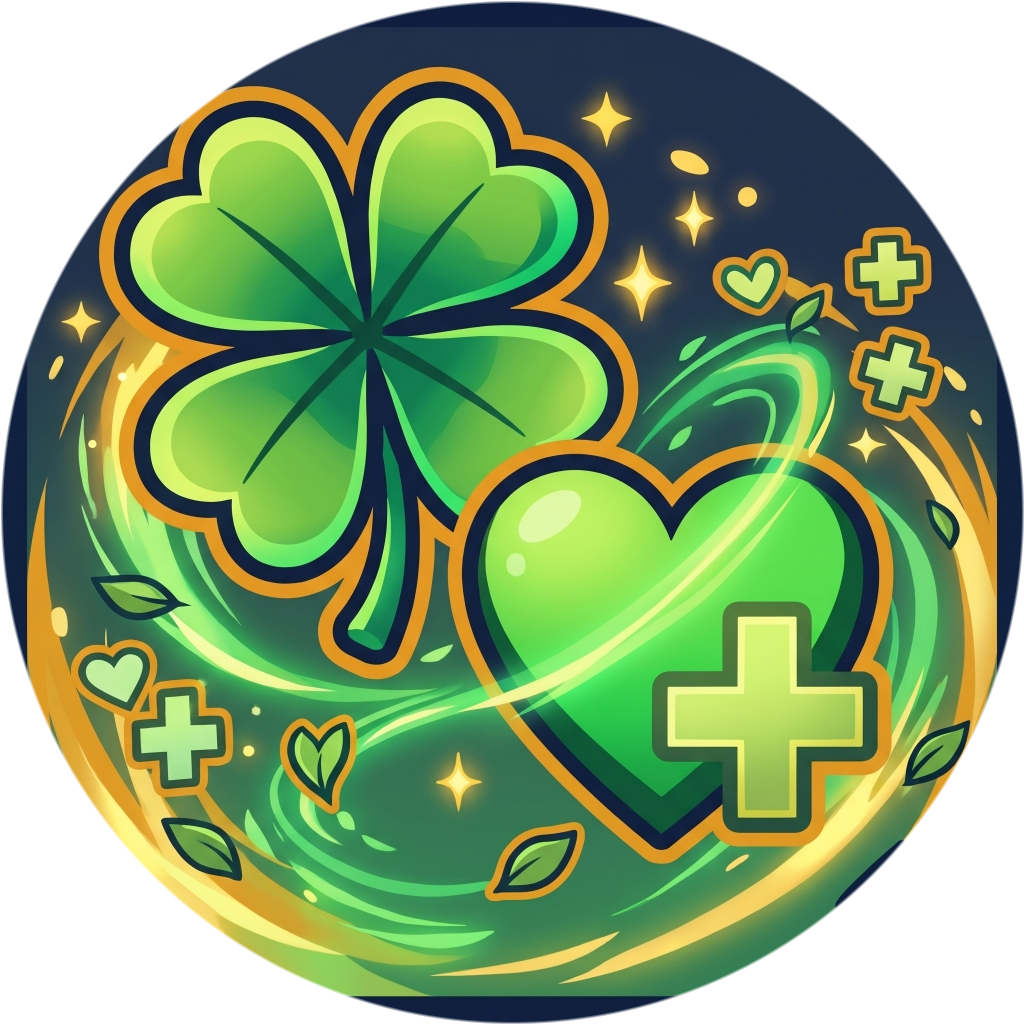
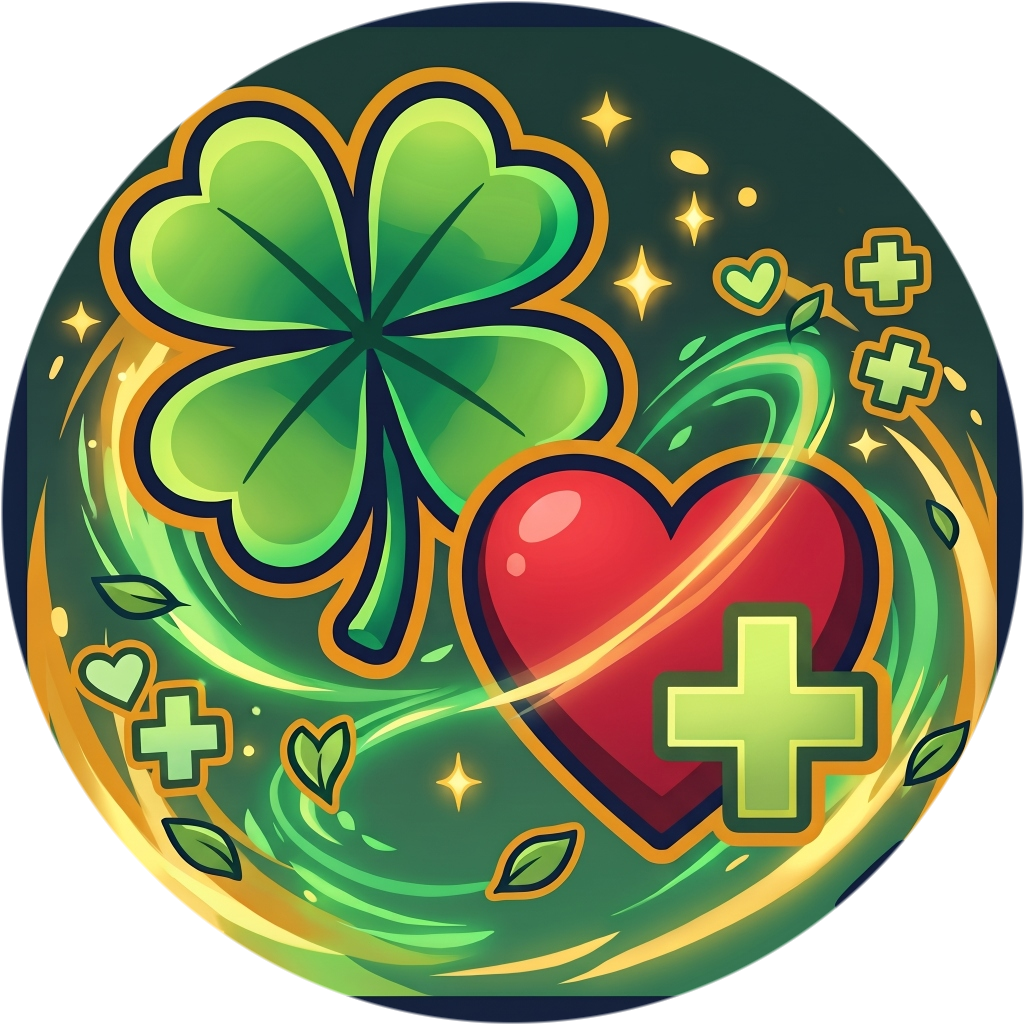
증강 알고리즘 수정

Changed region(s): [[0.4688, 0.4375, 0.8438, 0.8125], [0.5625, 0.375, 0.5938, 0.4062]]

diff --git a/src/calc/augmentRoll.js b/src/calc/augmentRoll.js
@@ -56,22 +56,99 @@ function pickWeightedIndex(pool, pokemon = null, battle = null) {
   return pool.length - 1;
 }
 
-function getForcedSynergyAugment(pokemon) {
+export function getForcedSynergyAugment(pokemon, availablePool = null, battle = null, team = null) {
   if (!pokemon) return null;
+
+  // 이미 활성화된 시너지 제외하고, 해당 포켓몬이 1개 이상 보유하고 아직 남은 구성 증강이 있는 시너지 수집
+  const activeSynergies = [];
   for (const [buffId, requiredIds] of Object.entries(AUGMENT_SYNERGY_MAP)) {
-    // 영메는 팀 전체니까 따로 관리
+    // 영메/메용 등 팀 또는 본인이 이미 시너지 버프를 보유 중이면 제외
     if (pokemon.hasAugment?.(buffId) || pokemon.hasAugmentOnTeam?.(buffId)) {
       continue;
     }
     const threshold = typeof getSynergyThreshold === "function" ? getSynergyThreshold(buffId, requiredIds) : requiredIds.length;
     const owned = requiredIds.filter((id) => pokemon.hasAugment?.(id));
-    if (owned.length === threshold - 1) {
-      const missingCandidates = requiredIds.filter((id) => !pokemon.hasAugment?.(id));
-      const found = AUGMENT_LIST.find((a) => missingCandidates.includes(a.id) && (typeof a.isEligible !== "function" || a.isEligible(pokemon)));
-      if (found) return found;
+    const missing = requiredIds.filter((id) => !pokemon.hasAugment?.(id));
+
+    // 이미 임계치 이상 보유했거나 남은 증강이 없으면 제외
+    if (owned.length >= threshold || missing.length === 0) {
+      continue;
+    }
+
+    if (owned.length > 0) {
+      activeSynergies.push({
+        buffId,
+        requiredIds,
+        owned,
+        missing,
+      });
     }
   }
-  return null;
+
+  if (activeSynergies.length === 0) {
+    return null;
+  }
+
+  // 서로 다른 시너지의 증강이 하나씩 있을 때엔 해당 로직을 적용하지 않는다
+  if (activeSynergies.length >= 2 && activeSynergies.every((s) => s.owned.length === 1)) {
+    return null;
+  }
+
+  let targetSynergy = null;
+  let chance = 0;
+
+  if (activeSynergies.length === 1) {
+    const s = activeSynergies[0];
+    if (s.owned.length === 1) {
+      // 시너지 증강이 하나 있을 때: 70% 확률
+      targetSynergy = s;
+      chance = 0.7;
+    } else if (s.owned.length === 2) {
+      // 시너지 증강이 2개일 때: 50% 확률
+      targetSynergy = s;
+      chance = 0.5;
+    }
+  } else {
+    // 2개 이상 시너지에 걸쳐 있을 때 2개를 보유한 시너지가 있다면 50% 확률 적용
+    const synergyWith2 = activeSynergies.find((s) => s.owned.length === 2);
+    if (synergyWith2) {
+      targetSynergy = synergyWith2;
+      chance = 0.5;
+    } else {
+      return null;
+    }
+  }
+
+  if (!targetSynergy || chance <= 0) {
+    return null;
+  }
+
+  // 맨 처음에 70% or 50% 확률로 넣을지 말지 판단
+  if (Math.random() >= chance) {
+    return null;
+  }
+
+  // 넣기로 했을 때, 해당 증강을 제외한 다른 시너지 증강 중 하나를 랜덤 택 1
+  const missingCandidates = targetSynergy.missing;
+  let candidates = [];
+  if (Array.isArray(availablePool)) {
+    candidates = availablePool.filter((a) => missingCandidates.includes(a.id));
+  } else {
+    candidates = AUGMENT_LIST.filter(
+      (a) =>
+        missingCandidates.includes(a.id) &&
+        !pokemon.hasAugment?.(a.id) &&
+        isRollableAugmentType(a) &&
+        a.weight !== "-" &&
+        (typeof a.isEligible !== "function" || a.isEligible(pokemon, battle, team))
+    );
+  }
+
+  if (candidates.length === 0) {
+    return null;
+  }
+
+  return candidates[Math.floor(Math.random() * candidates.length)];
 }
 
 
@@ -101,7 +178,7 @@ function getPriorityTopAugment(pokemon) {
   return null;
 }
 
-const getForcedBeginnerAugment = getForcedSynergyAugment;
+export const getForcedBeginnerAugment = getForcedSynergyAugment;
 
 /**
  * 포켓몬이 선택 가능한 증강을 가중치 기반 무작위(중복 없이) 추첨합니다.
@@ -123,7 +200,7 @@ export function rollAugments(pokemon, count = 3, battle = null) {
   });
   const priorityTopRaw = getPriorityTopAugment(pokemon);
   const priorityTop = priorityTopRaw && (!isFull || !isNormalAugment(priorityTopRaw)) ? priorityTopRaw : null;
-  const forced = getForcedBeginnerAugment(pokemon);
+  const forced = getForcedSynergyAugment(pokemon, available, battle, team);
   const selected = [];
   let pool = [...available];
 
@@ -231,7 +308,7 @@ export function rollTeamAugments(team, battle = null) {
 
     const priorityTopRaw = getPriorityTopAugment(poke);
     const priorityTop = priorityTopRaw && (!isFull || !isNormalAugment(priorityTopRaw)) ? priorityTopRaw : null;
-    const forced = getForcedBeginnerAugment(poke);
+    const forced = getForcedSynergyAugment(poke, available, battle, team);
     const chosen = [];
     if (priorityTop) {
       chosen.push(priorityTop);

diff --git a/src/component/battleScreen/augment/AugmentSelectModal.js b/src/component/battleScreen/augment/AugmentSelectModal.js
@@ -1,4 +1,4 @@
-import React, { useState, useEffect, useMemo } from "react";
+import React, { useState, useEffect, useMemo, useCallback } from "react";
 import styled, { keyframes } from "styled-components";
 import { AugmentIcon } from "./AugmentIcon";
 import { AUGMENT_LIST, getAugmentSelDesc, isCurseAugment, isBuffAugment, isPermanentBuff, isPermanentCurse, isSynergyAugment, isSynergyComponentAugment, isNormalAugment, isReplacementAugment, getAugmentSynergyInfo } from "../../../entity/Augment/AugmentData";
@@ -116,34 +116,40 @@ const AugmentSelectModal = ({ team = [], augments = [], targetPokemon = null, in
     return resolvedTeam[0] || null;
   });
 
-  const checkEligibility = (aug, pokemon) => {
-    if (!pokemon) return false;
-    if (isTitanSelection) return true;
-    const isSpecialAug = isBuffAugment(aug) || isCurseAugment(aug) || isSynergyAugment(aug);
-    const isInstant = aug.cost === "-";
-    const normalAugs = (pokemon.augments || []).filter((a) => isNormalAugment(a));
-    if (normalAugs.length >= 3 && !isInstant && !isSpecialAug) {
-      return false;
-    }
-    if (pokemon.hasAugment?.(aug.id)) {
-      return false;
-    }
-    if (isReplacementAugment(aug) && (pokemon.hasAugment?.("jinanSangae") || pokemon.hasAugment?.("rudePureLove"))) {
-      return false;
-    }
-    if (typeof aug.isEligible === "function") {
-      return aug.isEligible(pokemon, battle, resolvedTeam);
-    }
-    return true;
-  };
+  const checkEligibility = useCallback(
+    (aug, pokemon) => {
+      if (!pokemon) return false;
+      if (isTitanSelection) return true;
+      const isSpecialAug = isBuffAugment(aug) || isCurseAugment(aug) || isSynergyAugment(aug);
+      const isInstant = aug.cost === "-";
+      const normalAugs = (pokemon.augments || []).filter((a) => isNormalAugment(a));
+      if (normalAugs.length >= 3 && !isInstant && !isSpecialAug) {
+        return false;
+      }
+      if (pokemon.hasAugment?.(aug.id)) {
+        return false;
+      }
+      if (isReplacementAugment(aug) && (pokemon.hasAugment?.("jinanSangae") || pokemon.hasAugment?.("rudePureLove"))) {
+        return false;
+      }
+      if (typeof aug.isEligible === "function") {
+        return aug.isEligible(pokemon, battle, resolvedTeam);
+      }
+      return true;
+    },
+    [isTitanSelection, battle, resolvedTeam]
+  );
 
   const { allEligible, allIneligible } = useMemo(() => {
     const eligible = [];
     const ineligible = [];
-    const trimmed = searchTerm.trim().toLowerCase();
+    const cleanSearch = searchTerm.replace(/\s+/g, "").toLowerCase();
     AUGMENT_LIST.forEach((aug) => {
-      if (trimmed && !aug.name.toLowerCase().includes(trimmed)) {
-        return;
+      if (cleanSearch) {
+        const cleanName = (aug.name || "").replace(/\s+/g, "").toLowerCase();
+        if (!cleanName.includes(cleanSearch)) {
+          return;
+        }
       }
       if (checkEligibility(aug, activePokemon)) {
         eligible.push(aug);
@@ -154,7 +160,7 @@ const AugmentSelectModal = ({ team = [], augments = [], targetPokemon = null, in
     eligible.sort(compareAugmentNames);
     ineligible.sort(compareAugmentNames);
     return { allEligible: eligible, allIneligible: ineligible };
-  }, [activePokemon, searchTerm]);
+  }, [activePokemon, searchTerm, checkEligibility]);
 
   // 레지기가스 선택시 고정 증강
   const titanFixedChoices = useMemo(() => {

diff --git a/src/component/battleScreen/augment/AugmentIcon.js b/src/component/battleScreen/augment/AugmentIcon.js
@@ -1196,7 +1196,7 @@ export const AugmentIcon = ({ id, size = 42, pokemon = null, pokemonId = null, s
         {/* 운 좋은 회복 (클로버/하트 일러스트 이미지 + 원형 클리핑 & 에메랄드-라임 링) */}
         {id === "luckyRecovery" && (
           <g clipPath="url(#lwClip)">
-            <image href="/pokemon/img/augment/luckyRecovery.png?v=2" x="1" y="1" width="62" height="62" preserveAspectRatio="xMidYMid slice" />
+            <image href="/pokemon/img/augment/luckyRecovery.png?v=3" x="1" y="1" width="62" height="62" preserveAspectRatio="xMidYMid slice" />
             <circle cx="32" cy="32" r="29.5" fill="none" stroke="url(#lwRingGrad)" strokeWidth="1.8" />
             <circle cx="32" cy="32" r="28.2" fill="none" stroke="#bef264" strokeWidth="0.5" strokeOpacity="0.4" />
           </g>
